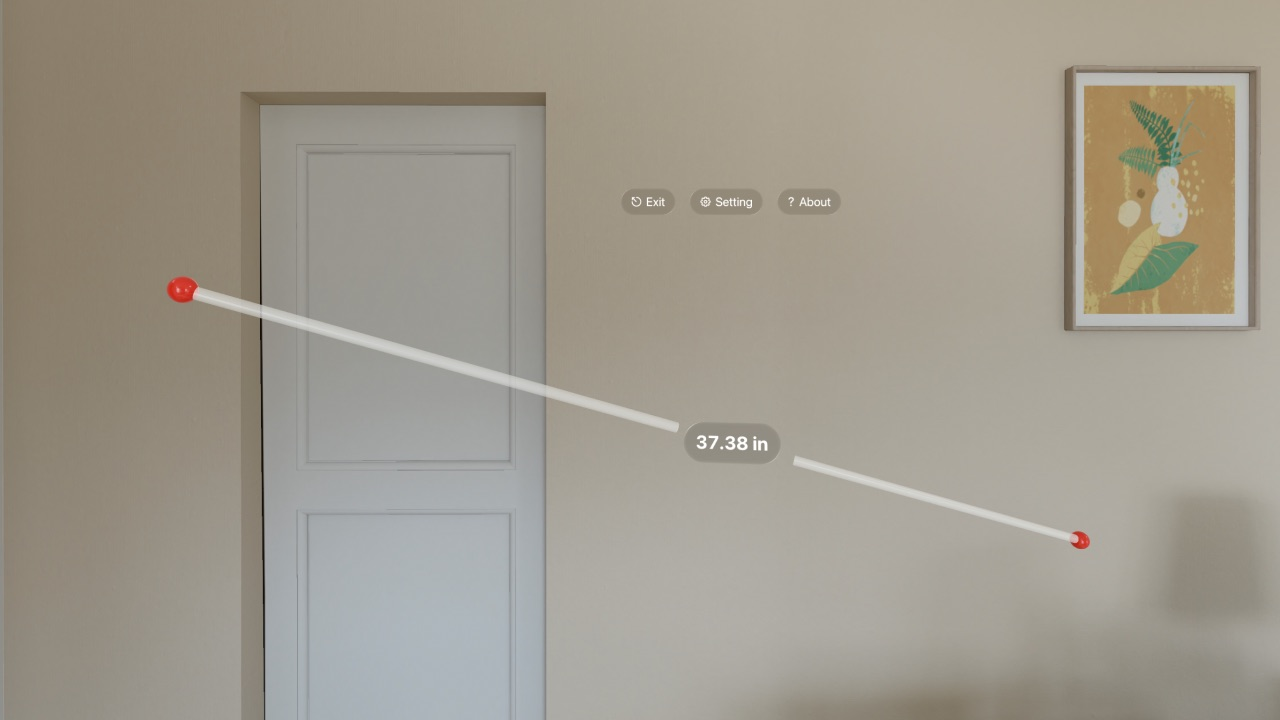
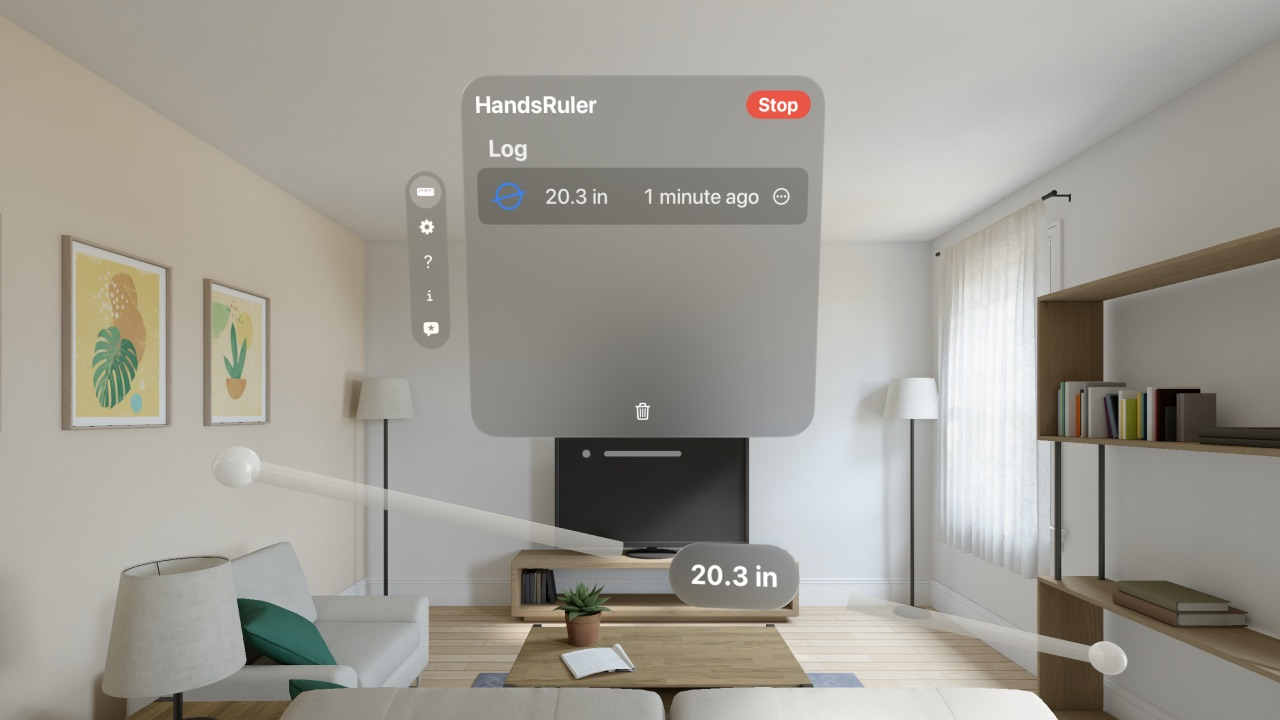
a

diff --git a/HandsRuler/body.md b/HandsRuler/body.md
@@ -34,13 +34,21 @@ Apple Vision Pro向け。
 
 - ヤード(yd)
 
+- フィート&インチ
+
 ### おまけ機能
 
-- ポインターを間接タップして位置を固定する
+- ポインターを間接タップして位置を固定。
+
+- 複数測定機能。
+
+- ログ機能。
 
 <img src="screenshot1280w2.jpg" width="600">
 
 <img src="screenshot1280w3.jpg" width="600">
+
+<img src="screenshot1280w4.jpg" width="600">
 
 * * *
 
